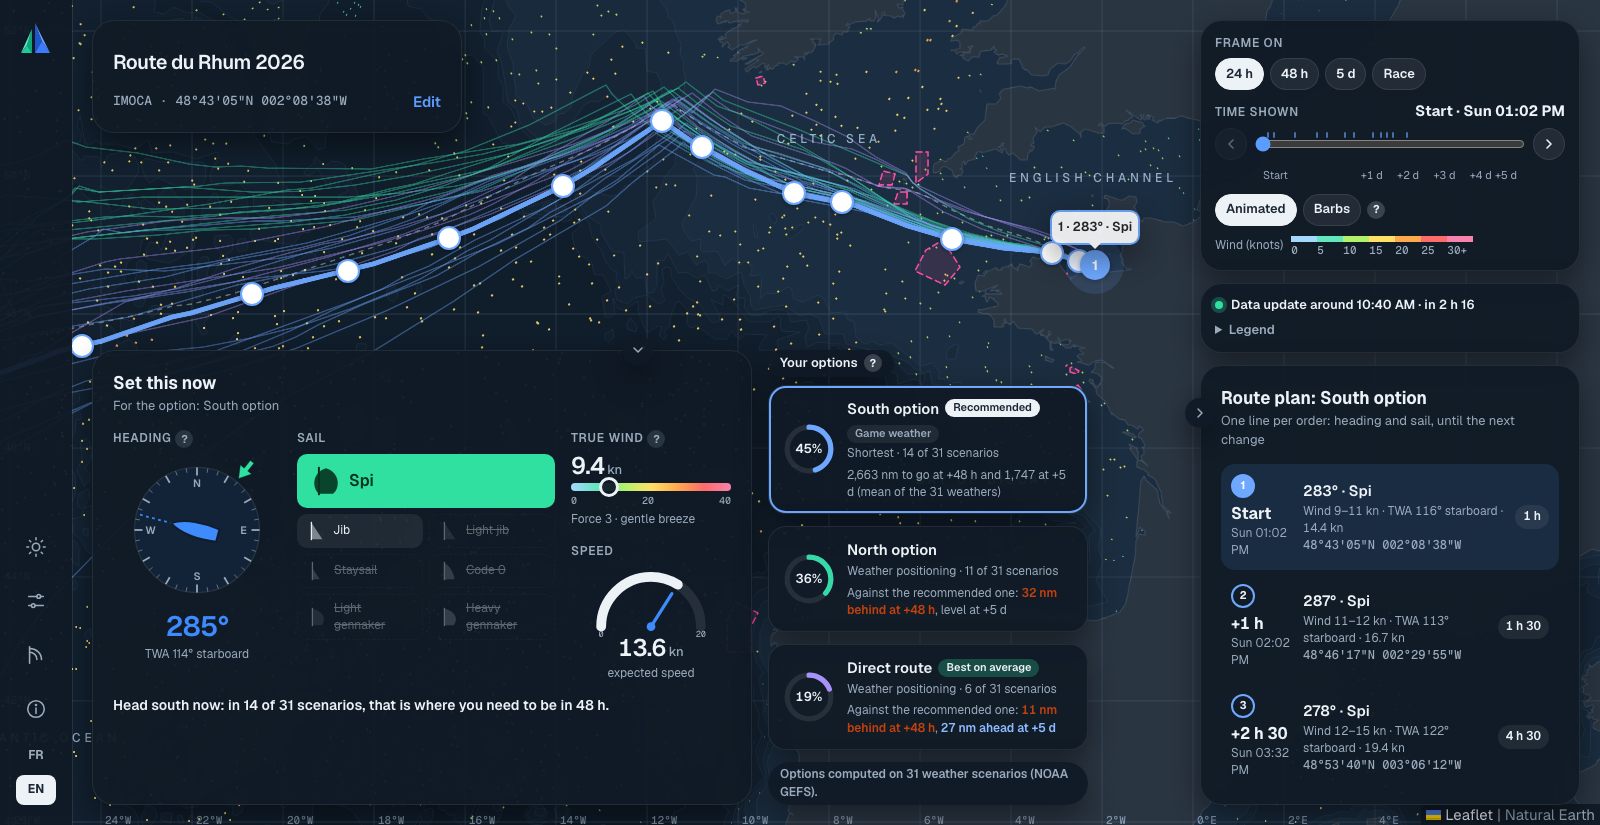
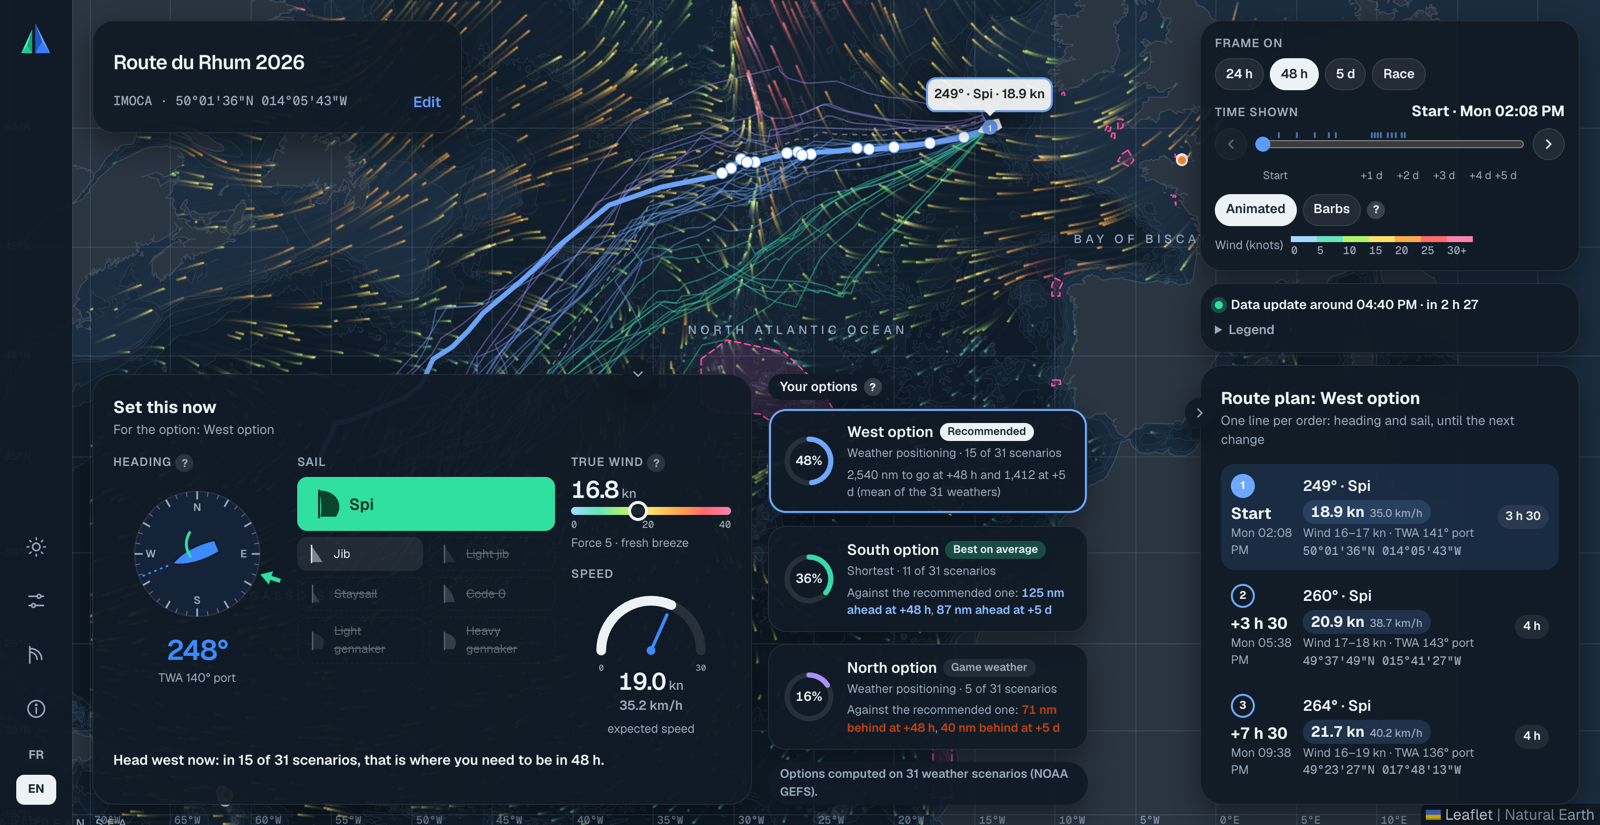
README: new chart screenshot mid-Atlantic, expected speed and cursor position mentioned

diff --git a/README.md b/README.md
@@ -14,7 +14,7 @@
 
 [Getting started](#getting-started) · [How it works](#how-it-works) · [Using it in the game](#using-it-in-the-game) · [FAQ](#faq) · [Technical docs](docs/ai/index.md)
 
-<img src="docs/images/app.png" alt="The chart: the recommended route with numbered orders, thin lines for the 31 scenarios, wind particles, and panels showing the settings to apply now, the three options and the route plan" width="800">
+<img src="docs/images/app.png" alt="The chart in mid-Atlantic: the recommended route with small numbered orders, the current one labelled with heading, sail and speed, thin lines for the 31 scenarios, wind particles, and panels showing the settings to apply now, the three options and the route plan with the expected speed of each order" width="800">
 
 </div>
 
@@ -27,10 +27,10 @@ A single "optimal" route changes every 6 hours with the forecast. Regatta Copilo
 - **The game's weather, read like the game**: NOAA GFS 0.25°, every 3 hours, interpolated in between, picked up 3 h 40 after each run as the game does.
 - **31 scenarios**: the NOAA GEFS ensemble, routed one by one with your boat's polar, then grouped into at most 3 options with their probability ("14 of 31 scenarios").
 - **Options compared fairly**: each option's route is sailed again in all 31 weathers and compared on distance to go to the finish through every mark, so a fast detour only counts if it gains ground. A **Best on average** badge flags the option that wins more often than the recommended one.
-- **A route plan you can type**: one line per order, a constant heading the game can hold, never within 1 nm of a coast or an exclusion zone.
+- **A route plan you can type**: one line per order, a constant heading the game can hold, never within 1 nm of a coast or an exclusion zone, with the speed to expect in knots and km/h (as the game shows it) to check you are on track.
 - **Your boat, not a generic one**: tick the sails and options you own (foils, polished hull, pro winch), set your manoeuvre times, import your own polar from the game.
 - **Polar and options page**: see what a sail or an option changes on your polar, and how many miles it is worth on the current weather.
-- **A real chart**: wind particles or barbs, a time bar over 5 days, numbered orders that pulse as you scrub through time, light and dark themes, French and English.
+- **A real chart**: wind particles or barbs, a time bar over 5 days, numbered orders that pulse as you scrub through time, the position under the mouse in the game's format, light and dark themes, French and English.
 
 ## Getting started
 
@@ -86,7 +86,7 @@ The full explanation, with diagrams, is on the site's **How it works** page.
 ## Using it in the game
 
 1. Copy your position from the game and type it in the race card (degrees, minutes, seconds), then **Compute my route**.
-2. Read **Set this now**: heading, sail, wind and speed for the selected option.
+2. Read **Set this now**: heading, sail, wind and expected speed (knots and km/h) for the selected option.
 3. Type the orders of the **route plan** into the game, one per line. Scrub the time bar to see where each order takes you.
 4. Recompute after each new forecast: the legend shows when the next one is due.
 
